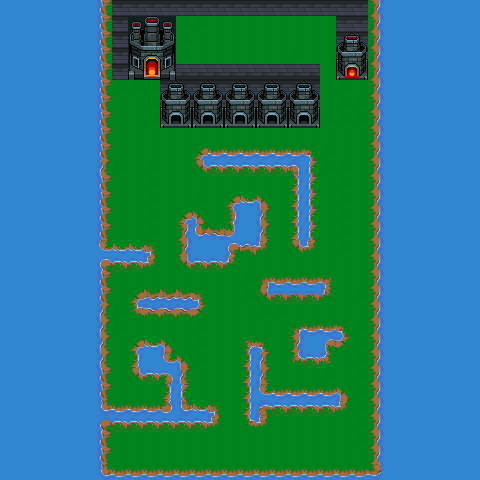
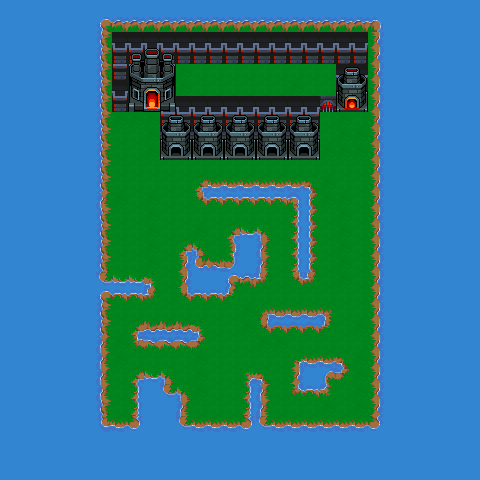
Second chapter

diff --git a/Source/Game.cpp b/Source/Game.cpp
@@ -80,7 +80,7 @@ bool Game::Initialize() {
     mAudio = new AudioSystem();
 
     // Starts the game
-    SetGameScene(GameScene::MainMenu, TRANSITION_TIME, true);
+    SetGameScene(GameScene::Level1, TRANSITION_TIME, true);
     //SetGameScene(GameScene::Level1, TRANSITION_TIME, true);
 
     return true;
@@ -765,39 +765,51 @@ void Game::ChangeScene() {
         Stats orc = Stats("Orc", 25, 25, 8, 0, 5, 5, 3, 0, 4);
         Stats skeleton = Stats("Skeleton", 20, 20, 6, 1, 7, 6, 1, 2, 4);
         Stats boss = Stats("Thales", 35, 35, 10, 2, 8, 10, 5, 5, 5);
-        for (int i = 0; i < 9; i++) {
-            Enemy *enemy = new Enemy(this, "Orc", orc);
-            w = new Weapon("Iron Sword", 90, 6, 0, 1);
+        bool flag = false;
+        if (flag)
+        {
+            for (int i = 0; i < 9; i++) {
+                Enemy *enemy = new Enemy(this, "Orc", orc);
+                w = new Weapon("Iron Sword", 90, 6, 0, 1);
+                enemy->SetStats(orc);
+                enemy->AddWeapon(w);
+                mEnemies.emplace_back(enemy);
+            }
+            for (int i = 0; i < 3; i++) {
+                Enemy *enemy = new Enemy(this, "Skeleton", skeleton);
+                w = new Weapon("Iron Bow", 90, 4, 0, 2);
+                enemy->SetStats(skeleton);
+                enemy->AddWeapon(w);
+                mEnemies.emplace_back(enemy);
+            }
+            Enemy *enemy = new Enemy(this, "Boss", boss);
+            w = new Weapon("Spear of assal", 100, 8, 0, 1);
+            enemy->SetStats(boss);
+            enemy->AddWeapon(w);
+            mEnemies.emplace_back(enemy);
+
+            mEnemies[0]->SetXY(19, 16);
+            mEnemies[1]->SetXY(13, 13);
+            mEnemies[2]->SetXY(17, 17);
+            mEnemies[3]->SetXY(13, 10);
+            mEnemies[4]->SetXY(15, 20);
+            mEnemies[5]->SetXY(17, 16);
+            mEnemies[6]->SetXY(21, 8);
+            mEnemies[7]->SetXY(21, 7);
+            mEnemies[8]->SetXY(21, 14);
+            mEnemies[9]->SetXY(14, 9);
+            mEnemies[10]->SetXY(12, 9);
+            mEnemies[11]->SetXY(16, 21);
+            mEnemies[12]->SetXY(6, 13);
+        } else {
+            Enemy *enemy = new Enemy(this, "Orc", boss);
+            w = new Weapon("Iron Sword", 100, 8, 0, 1);
             enemy->SetStats(orc);
             enemy->AddWeapon(w);
+            enemy->SetXY(19, 16);
+            enemy->SetCurrentHp(1);
             mEnemies.emplace_back(enemy);
         }
-        for (int i = 0; i < 3; i++) {
-            Enemy *enemy = new Enemy(this, "Skeleton", skeleton);
-            w = new Weapon("Iron Bow", 90, 4, 0, 2);
-            enemy->SetStats(skeleton);
-            enemy->AddWeapon(w);
-            mEnemies.emplace_back(enemy);
-        }
-        Enemy *enemy = new Enemy(this, "Boss", boss);
-        w = new Weapon("Spear of assal", 100, 8, 0, 1);
-        enemy->SetStats(boss);
-        enemy->AddWeapon(w);
-        mEnemies.emplace_back(enemy);
-
-        mEnemies[0]->SetXY(19, 16);
-        mEnemies[1]->SetXY(13, 13);
-        mEnemies[2]->SetXY(17, 17);
-        mEnemies[3]->SetXY(13, 10);
-        mEnemies[4]->SetXY(15, 20);
-        mEnemies[5]->SetXY(17, 16);
-        mEnemies[6]->SetXY(21, 8);
-        mEnemies[7]->SetXY(21, 7);
-        mEnemies[8]->SetXY(21, 14);
-        mEnemies[9]->SetXY(14, 9);
-        mEnemies[10]->SetXY(12, 9);
-        mEnemies[11]->SetXY(16, 21);
-        mEnemies[12]->SetXY(6, 13);
 
         // Loads background image
         mBackground = LoadTexture("../Assets/Levels/Level1.png");
@@ -839,48 +851,68 @@ void Game::ChangeScene() {
             unit->SetAvailable(true);
             unit->SetCurrentHp(unit->GetStats().hp);
         }
-        mTrueblade->SetXY(27, 22);
-        mPegasusKnight->SetXY(28, 21);
-        mWarrior->SetXY(27, 21);
-        mMage->SetXY(28, 22);
+        mTrueblade->SetXY(24, 22);
+        mTrueblade->AddItem("Healing potion");
+        mPegasusKnight->SetXY(25, 21);
+        mPegasusKnight->AddItem("Healing potion");
+        mWarrior->SetXY(24, 21);
+        mWarrior->AddItem("Healing gem");
+        mMage->SetXY(25, 22);
+        mMage->AddItem("Healing potion");
 
         // Loads enemies
-        Weapon *w = nullptr;
-        Stats ss = Stats("Orc", 20, 20, 8, 4, 6, 6, 3, 0, 4);
-        for (int i = 0; i < 27; i++) {
-            Enemy *enemy = new Enemy(this, "Orc", ss);
+        Stats orc = Stats("Orc", 32, 32, 8, 0, 5, 5, 4, 0, 4);
+        Stats skeleton = Stats("Skeleton", 26, 26, 6, 1, 7, 6, 2, 2, 4);
+        Stats boss = Stats("Thales", 45, 45, 12, 2, 10, 11, 7, 7, 6);
+        Weapon *w;
+        for (int i = 0; i < 20; i++) {
+            Enemy *enemy = new Enemy(this, "Orc", orc);
             w = new Weapon("Iron Sword", 90, 6, 0, 1);
-            enemy->SetStats(ss);
+            enemy->SetStats(orc);
             enemy->AddWeapon(w);
             mEnemies.emplace_back(enemy);
         }
-        mEnemies[0]->SetXY(1, 11); // Boss, need to adjust stats
-        mEnemies[1]->SetXY(1, 12);
-        mEnemies[2]->SetXY(2, 11);
-        mEnemies[3]->SetXY(2, 16);
-        mEnemies[4]->SetXY(6, 8);
-        mEnemies[5]->SetXY(5, 9);
-        mEnemies[6]->SetXY(4, 20);
-        mEnemies[7]->SetXY(7, 20);
-        mEnemies[8]->SetXY(7, 21);
-        mEnemies[9]->SetXY(7, 22);
-        mEnemies[10]->SetXY(9, 9);
-        mEnemies[11]->SetXY(10, 8);
-        mEnemies[12]->SetXY(11, 12);
-        mEnemies[13]->SetXY(12, 12);
-        mEnemies[14]->SetXY(11, 17);
-        mEnemies[15]->SetXY(17, 15);
-        mEnemies[16]->SetXY(19, 14);
-        mEnemies[17]->SetXY(19, 13);
-        mEnemies[18]->SetXY(20, 13);
-        mEnemies[19]->SetXY(14, 21);
-        mEnemies[20]->SetXY(15, 22);
-        mEnemies[21]->SetXY(24, 7);
-        mEnemies[22]->SetXY(24, 8);
-        mEnemies[23]->SetXY(27, 15);
-        mEnemies[24]->SetXY(28, 14);
-        mEnemies[25]->SetXY(23, 20);
-        mEnemies[26]->SetXY(19, 21);
+        for (int i = 0; i < 6; i++) {
+            Enemy *enemy = new Enemy(this, "Skeleton", skeleton);
+            w = new Weapon("Iron Bow", 90, 4, 0, 2);
+            enemy->SetStats(skeleton);
+            enemy->AddWeapon(w);
+            mEnemies.emplace_back(enemy);
+        }
+        Enemy *enemy = new Enemy(this, "Boss", boss);
+        w = new Weapon("Spear of assal", 100, 8, 0, 1);
+        enemy->SetStats(boss);
+        enemy->AddWeapon(w);
+        mEnemies.emplace_back(enemy);
+
+        mEnemies[0]->SetXY(4, 12);
+        mEnemies[1]->SetXY(5, 11);
+        mEnemies[2]->SetXY(5, 16);
+        mEnemies[3]->SetXY(8, 9);
+        mEnemies[4]->SetXY(6, 20);
+        mEnemies[5]->SetXY(9, 21);
+        mEnemies[6]->SetXY(11, 9);
+        mEnemies[7]->SetXY(12, 8);
+        mEnemies[8]->SetXY(13, 12);
+        mEnemies[9]->SetXY(14, 12);
+        mEnemies[10]->SetXY(10, 17);
+        mEnemies[11]->SetXY(17, 17);
+        mEnemies[12]->SetXY(19, 14);
+        mEnemies[13]->SetXY(20, 13);
+        mEnemies[14]->SetXY(14, 21);
+        mEnemies[15]->SetXY(15, 22);
+        mEnemies[16]->SetXY(24, 7);
+        mEnemies[17]->SetXY(25, 14);
+        mEnemies[18]->SetXY(25, 13);
+        mEnemies[19]->SetXY(21, 22);
+        mEnemies[20]->SetXY(9, 8);
+        mEnemies[21]->SetXY(9, 20);
+        mEnemies[22]->SetXY(9, 22);
+        mEnemies[23]->SetXY(19, 13);
+        mEnemies[24]->SetXY(19, 21);
+        mEnemies[25]->SetXY(25, 7);
+        mEnemies[26]->SetXY(4, 11);
+
 
         // Loads background image
         mBackground = LoadTexture("../Assets/Levels/Level2.png");
